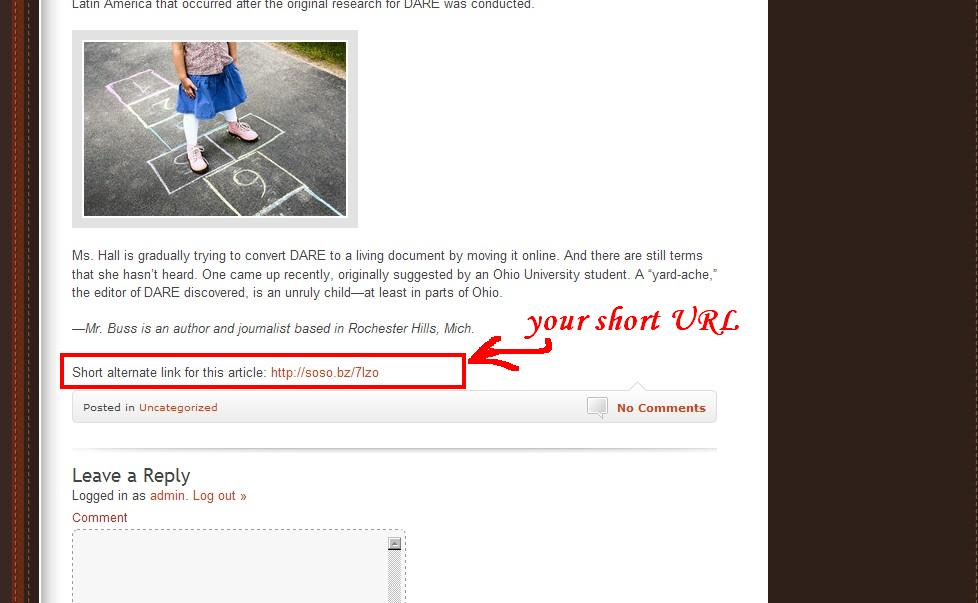
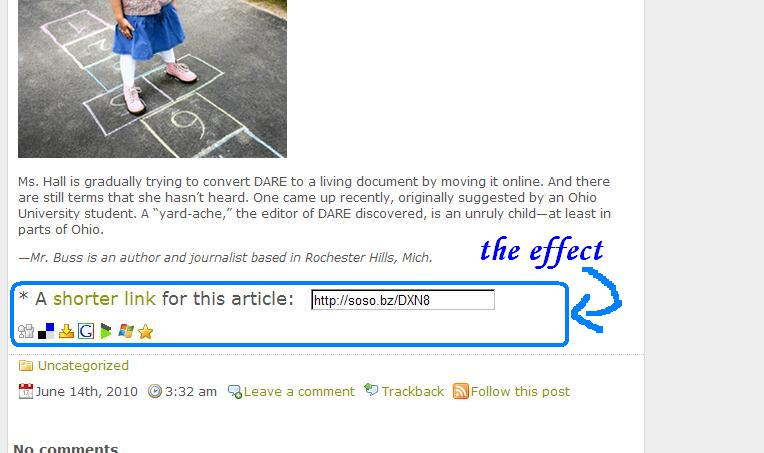
Add first version of my plugin
git-svn-id: https://plugins.svn.wordpress.org/sosobz-short-url/trunk@252769 b8457f37-d9ea-0310-8a92-e5e31aec5664

diff --git a/show.php b/show.php
@@ -1,6 +1,22 @@
+<script type="text/javascript"> 
+function copySosoBz() 
+{ 
+var SosoBz=document.getElementById("SosoBz"); 
+SosoBz.select();
+document.execCommand("Copy");
+alert("Have been copied!"); 
+} 
+</script> 
 <div style="margin-top:2em;">
   <?php if ($opt['Display'] == 'Y'): ?>
-    <?php echo __('Short alternate link for this article: ') ?>
-    <a href="<?php echo $shortUrl ?>"><?php echo get_post_meta($post->ID, 'SosoBzShortURL', true); ?></a>
-  <?php endif ?>
+    <?php echo __("<font size='4'>* A <a href='http://soso.bz' target='_blank'> shorter link</a> for this article:&nbsp;&nbsp;</font>") ?>
+    <input type="text" size="25" id="SosoBz" onClick="copySosoBz()" value="<?php echo get_post_meta($post->ID, 'SosoBzShortURL', true); ?>">&nbsp;&nbsp;&nbsp;&nbsp;&nbsp;&nbsp;
+    <p><a target="_blank" href="http://digg.com/submit?phase=2&url=<?php echo get_post_meta($post->ID, 'SosoBzShortURL', true); ?>&title=<?php wp_title('&laquo;', true, 'right'); ?>"><img title="Digg This Story" alt="Digg This Story" src="http://soso.bz/jscss/digg.gif" border="0"></a>
+		<a target="_blank" href="http://del.icio.us/post?url=<?php echo get_post_meta($post->ID, 'SosoBzShortURL', true); ?>&title=<?php wp_title('&laquo;', true, 'right'); ?>"><img title="Add to del.icio.us" alt="Add to del.icio.us" src="http://soso.bz/jscss/delicious.gif" border="0"></a>  
+		<a target="_blank" href="http://myweb2.search.yahoo.com/myresults/bookmarklet?u=<?php echo get_post_meta($post->ID, 'SosoBzShortURL', true); ?>&t=<?php wp_title('&laquo;', true, 'right'); ?>"><img title="Add Yahoo Myweb" alt="Add Yahoo Myweb" src="http://soso.bz/jscss/yahoo_myweb.gif" border="0"></a> 
+		<a target="_blank" href="http://www.google.com/bookmarks/mark?op=edit&bkmk=<?php echo get_post_meta($post->ID, 'SosoBzShortURL', true); ?>&title=<?php wp_title('&laquo;', true, 'right'); ?>"><img title="Add Google Bookmarks" alt="Add Google Bookmarks" src="http://soso.bz/jscss/google_bmarks.gif" border="0"></a>  
+		<a target="_blank" href="http://blogmarks.net/my/new.php?mini=1&url=<?php echo get_post_meta($post->ID, 'SosoBzShortURL', true); ?>&title=<?php wp_title('&laquo;', true, 'right'); ?>"><img title="Add to Blogmarks" alt="Add to Blogmarks" src="http://soso.bz/jscss/blogmarks.gif" border="0"></a>
+		<a target="_blank" href="https://favorites.live.com/quickadd.aspx?marklet=1&mkt=en-us&url=<?php echo get_post_meta($post->ID, 'SosoBzShortURL', true); ?>&title=<?php wp_title('&laquo;', true, 'right'); ?>"&top=1"><img title="Add to Windows Live" alt="Add to Windows Live" src="http://soso.bz/jscss/windows_live.gif" border="0"></a>
+		<a target="_blank" href="javascript:window.external.AddFavorite('<?php echo get_post_meta($post->ID, 'SosoBzShortURL', true); ?>','<?php wp_title('&laquo;', true, 'right'); ?>');"><img title="Add to Favorites" alt="Add to Favorites" src="http://soso.bz/jscss/internetexplorer.gif" border="0"></a></p>
+    <?php endif ?>
 </div>
